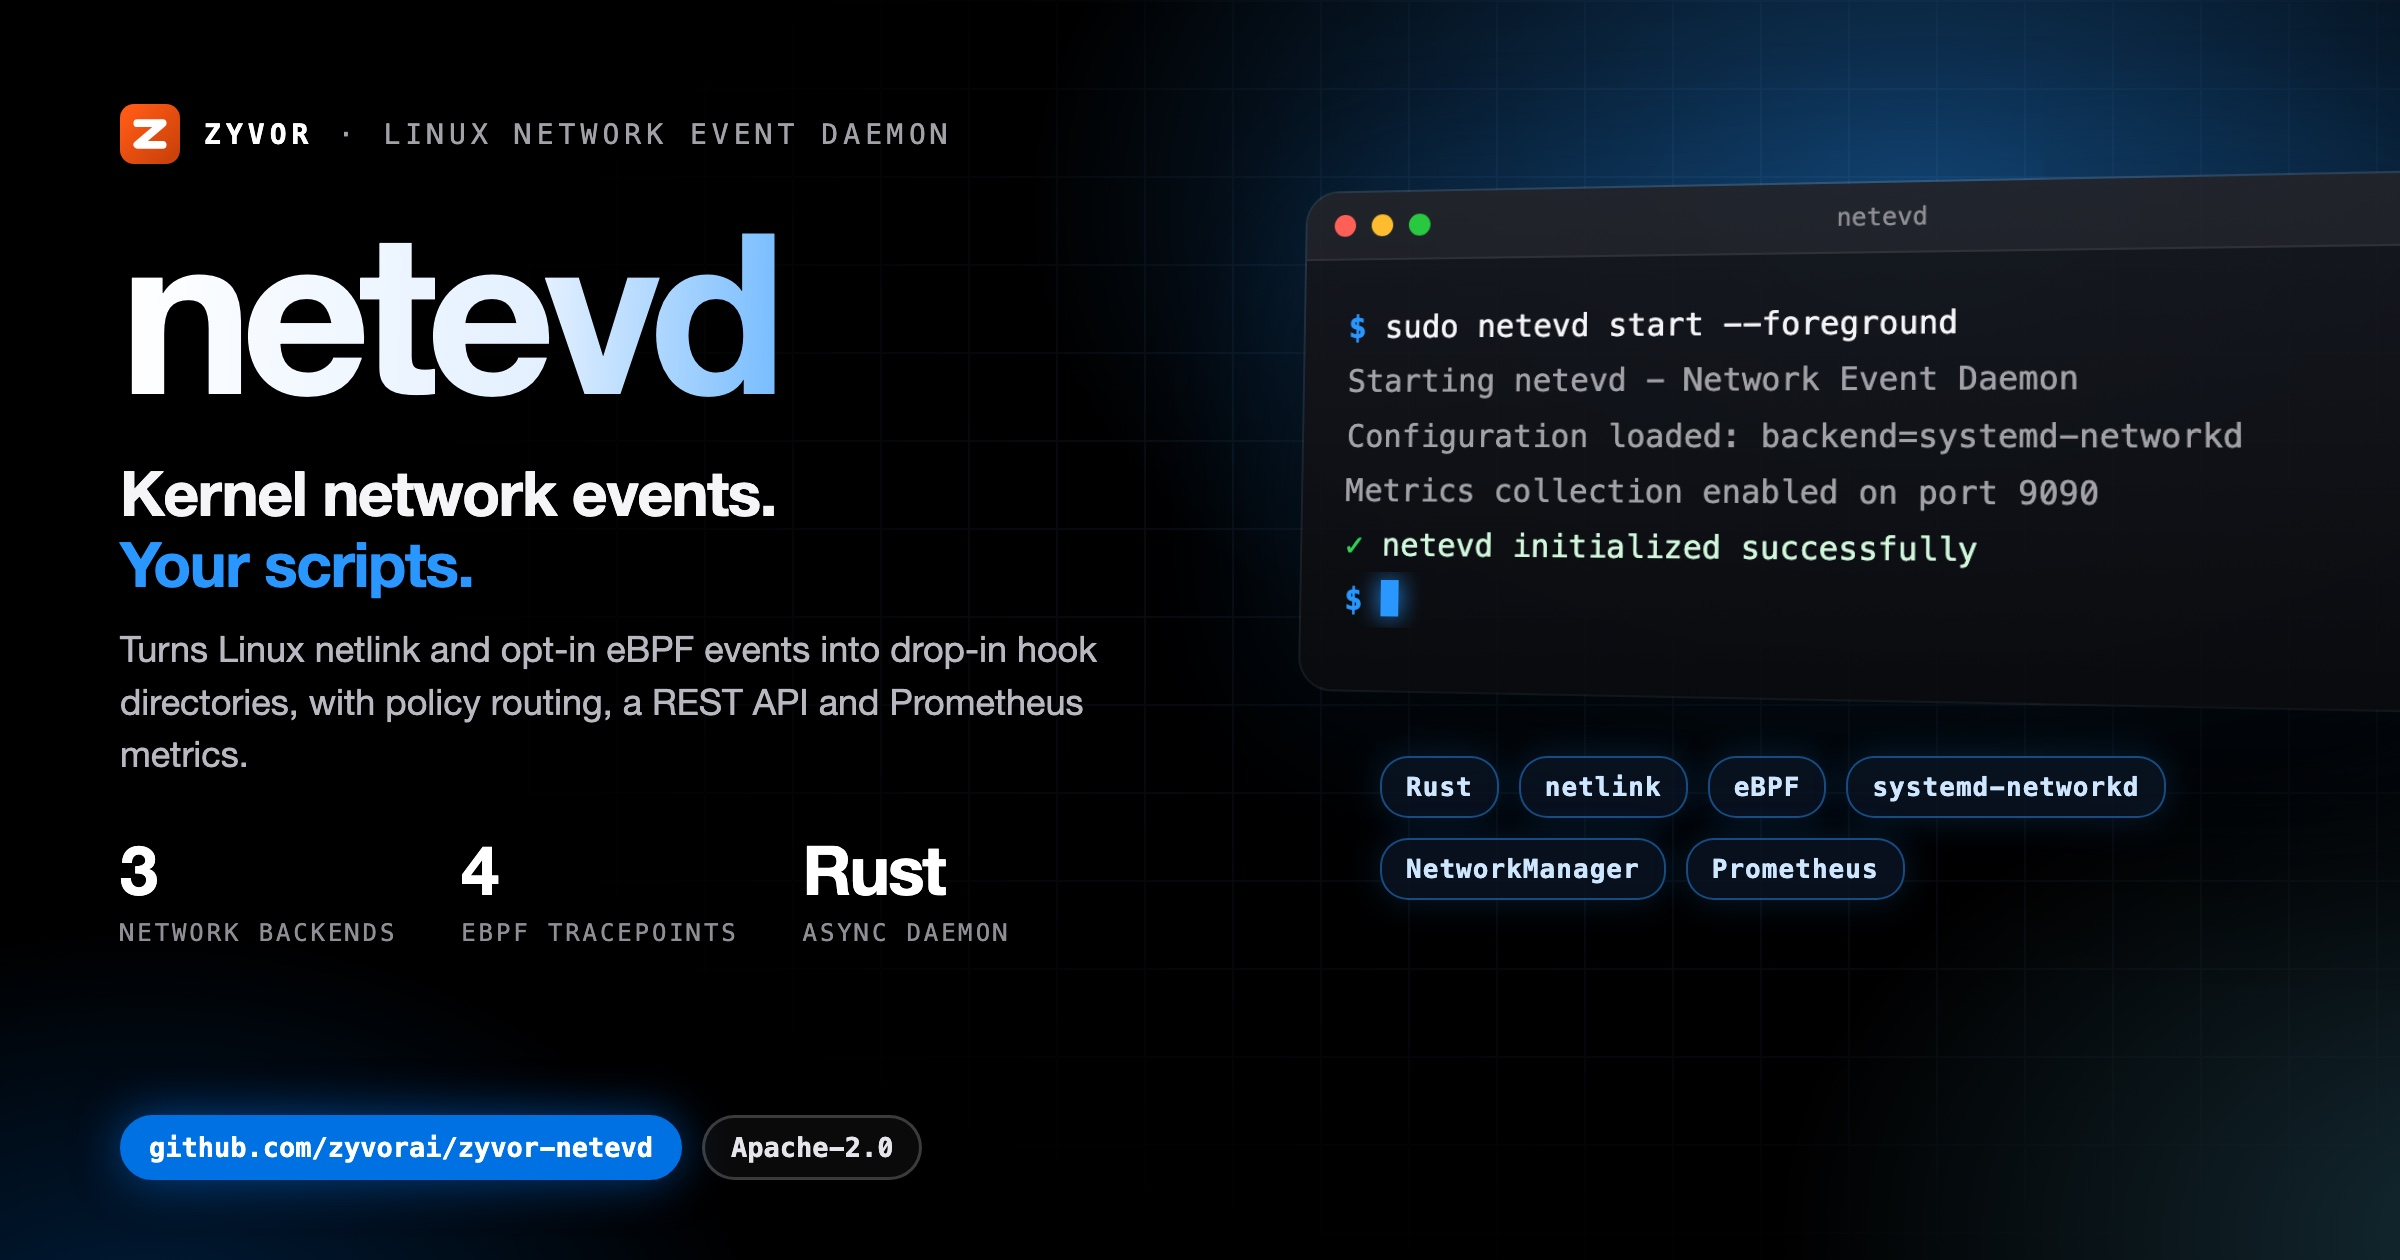
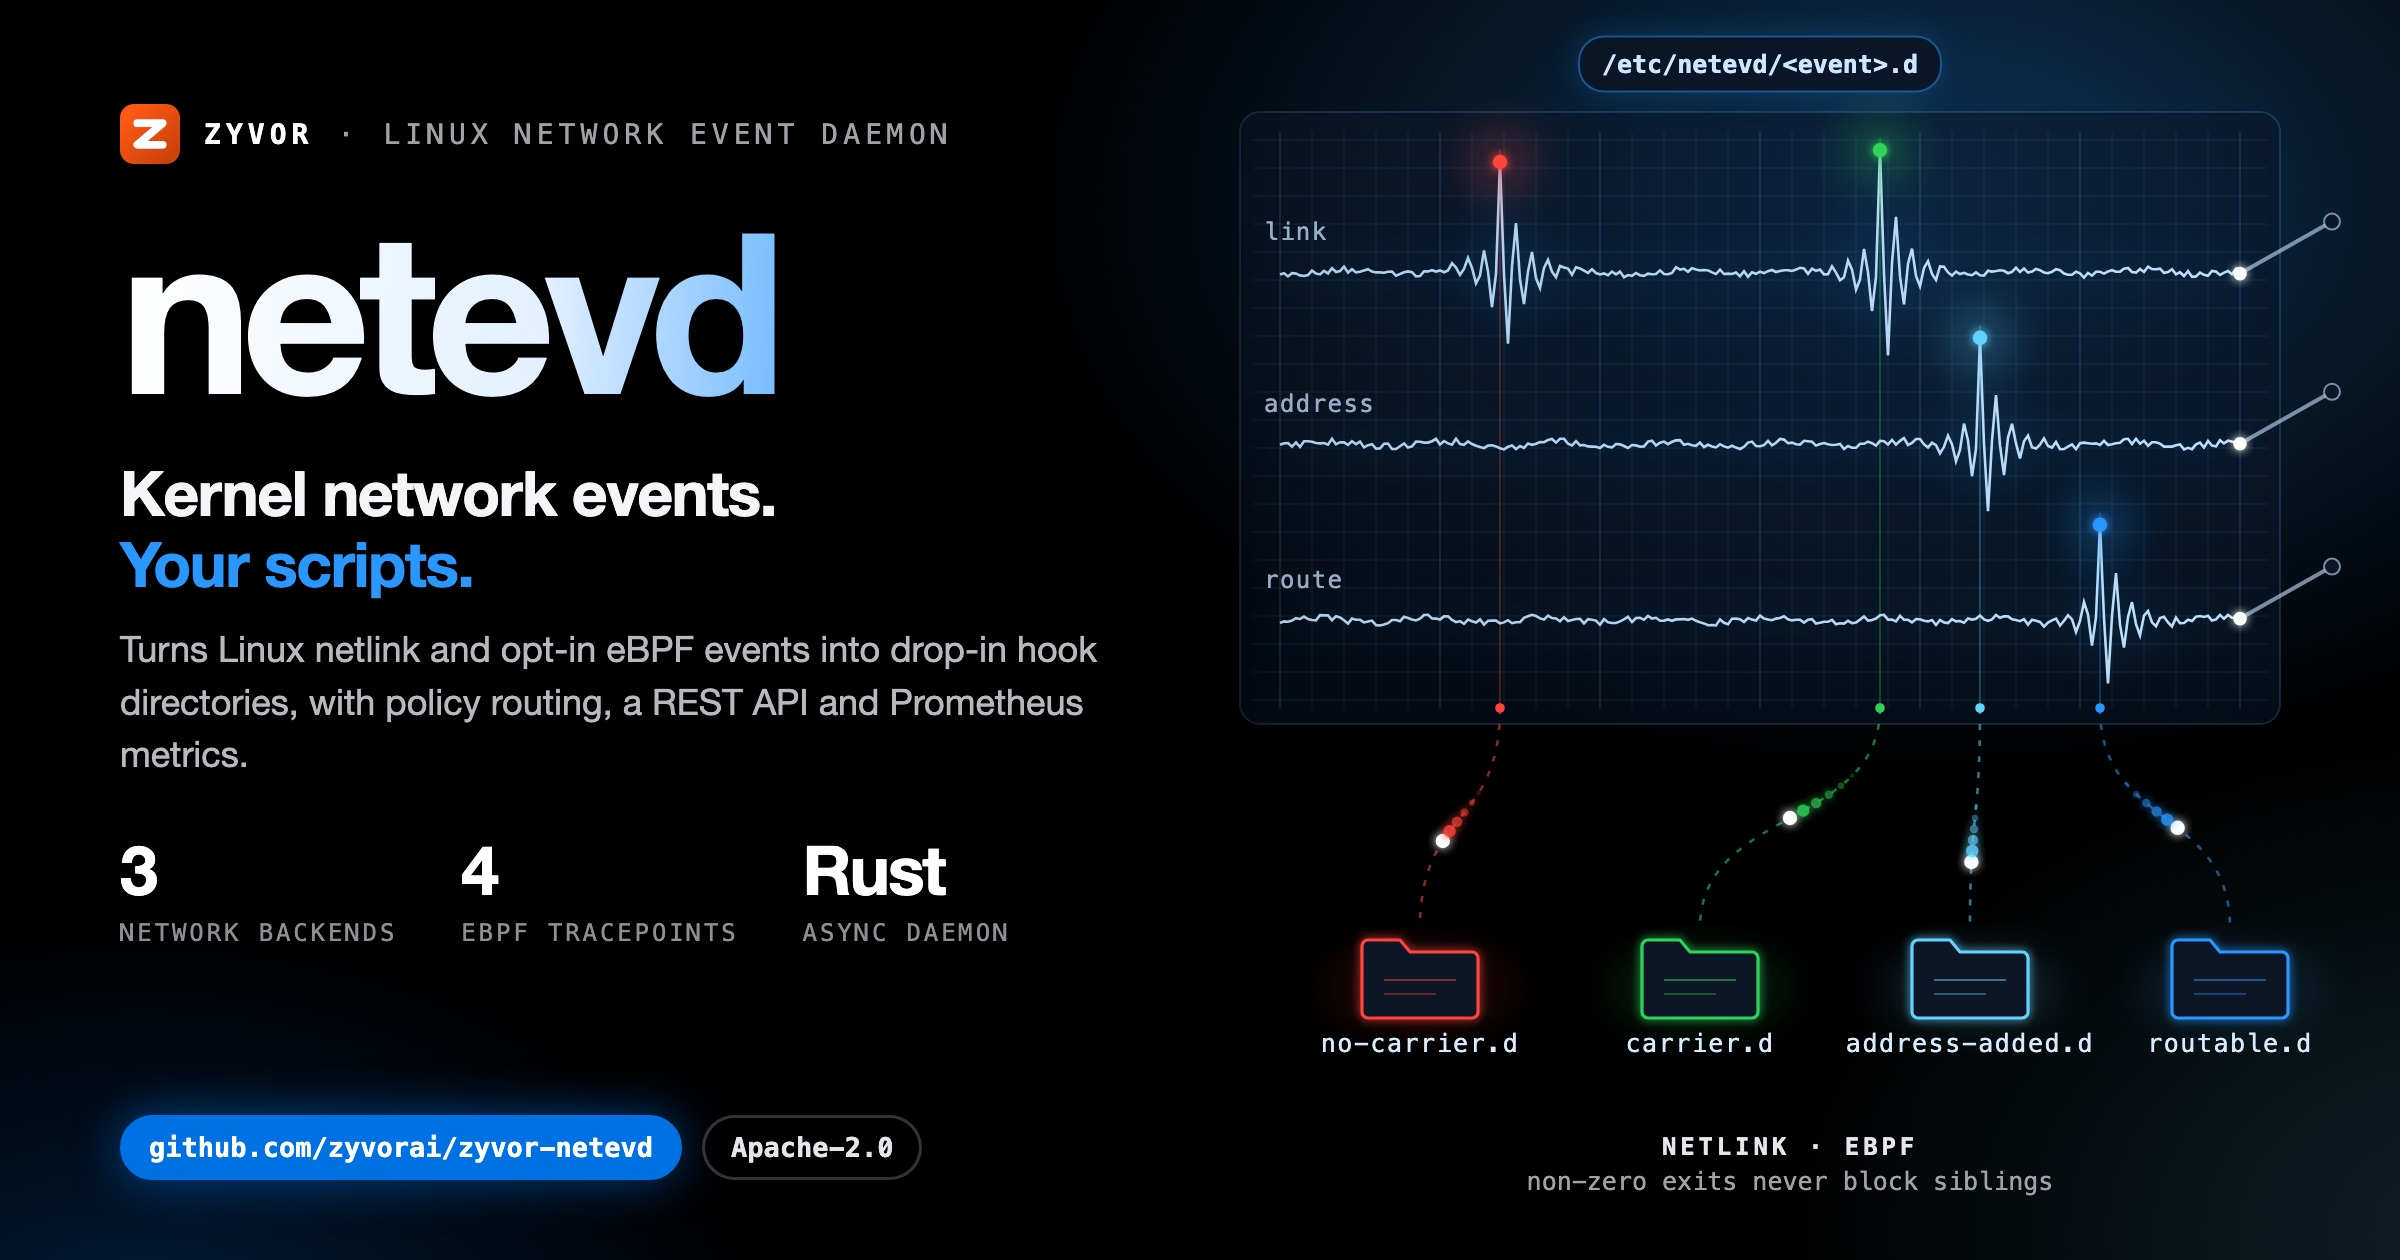
docs(social): unique illustrated hero card
Replace the shared terminal-window art with a motif drawn for this project;
same verified copy and stats on the left.

diff --git a/docs/social/netevd-hero-dark.html b/docs/social/netevd-hero-dark.html
@@ -8,58 +8,47 @@
   Build: ./docs/social/build-hero-dark.sh  ->  netevd-hero-dark.jpg (2400x1260)
 -->
 <style>
-  :root { --blue:#0071e3; --signal:#2997ff; --cyan:#64d2ff; --green:#30d158; --amber:#ff9f0a;
+  :root { --blue:#0071e3; --signal:#2997ff; --cyan:#64d2ff; --green:#30d158; --amber:#ff9f0a; --red:#ff453a; --violet:#bf5af2;
     --sans:'SF Pro Display','Helvetica Neue',Helvetica,Arial,sans-serif; --mono:'SF Mono',Menlo,Consolas,monospace; }
   * { box-sizing:border-box; }
   html,body { margin:0; padding:0; }
   body { width:1200px; height:630px; overflow:hidden; color:#f5f5f7; font-family:var(--sans); position:relative; background:#000; }
   .aurora { position:absolute; inset:0;
-    background:radial-gradient(720px 460px at 80% 16%, rgba(41,151,255,.40), transparent 62%),
-               radial-gradient(600px 420px at 104% 98%, rgba(100,210,255,.20), transparent 60%),
+    background:radial-gradient(720px 460px at 80% 16%, rgba(41,151,255,.34), transparent 62%),
+               radial-gradient(600px 420px at 104% 98%, rgba(100,210,255,.16), transparent 60%),
                radial-gradient(520px 380px at 6% 110%, rgba(0,113,227,.28), transparent 60%); }
-  .grid { position:absolute; inset:0; opacity:.09;
-    background-image:linear-gradient(rgba(120,180,255,.9) 1px,transparent 1px),linear-gradient(90deg,rgba(120,180,255,.9) 1px,transparent 1px);
-    background-size:44px 44px; -webkit-mask-image:radial-gradient(900px 520px at 72% 42%, #000 18%, transparent 75%); }
-  .left { position:absolute; left:60px; top:52px; width:560px; z-index:3; }
+  .copy { position:absolute; left:60px; top:52px; width:560px; z-index:3; }
   .brand { display:flex; align-items:center; gap:12px; font-family:var(--mono); font-size:14px; letter-spacing:.18em; text-transform:uppercase; color:#a1a1a6; }
   .brand b { color:#fff; }
   .word { margin:20px 0 0; font-size:112px; line-height:.95; font-weight:800; letter-spacing:-.05em; white-space:nowrap;
     background:linear-gradient(92deg,#fff 0%,#e3f0ff 38%,var(--signal) 74%,var(--cyan) 100%); -webkit-background-clip:text; background-clip:text; color:transparent; padding-bottom:6px; }
   .tag { margin:14px 0 0; font-size:31px; line-height:1.15; font-weight:700; letter-spacing:-.02em; }
   .tag em { font-style:normal; color:var(--signal); }
-  .lede { margin:12px 0 0; font-size:18px; line-height:1.45; color:#b8b8bf; width:520px; }
+  .lede { margin:12px 0 0; font-size:18px; line-height:1.45; color:#b8b8bf; width:520px; text-shadow:0 1px 12px #000; }
   .stats { margin-top:24px; display:flex; gap:32px; }
   .stat b { display:block; font-size:34px; font-weight:800; letter-spacing:-.03em; color:#fff; }
   .stat span { font-family:var(--mono); font-size:12px; letter-spacing:.12em; text-transform:uppercase; color:#8e8e93; }
   .pill { position:absolute; left:60px; bottom:40px; display:flex; gap:10px; z-index:3; }
-  .pill span { font-family:var(--mono); font-size:13.5px; font-weight:700; padding:7px 13px; border-radius:18px; border:1.5px solid rgba(255,255,255,.2); color:#e5e5ea; background:rgba(255,255,255,.04); }
+  .pill span { font-family:var(--mono); font-size:13.5px; font-weight:700; padding:7px 13px; border-radius:18px; border:1.5px solid rgba(255,255,255,.2); color:#e5e5ea; background:rgba(0,0,0,.6); }
   .pill span.b { background:var(--blue); border-color:var(--blue); color:#fff; box-shadow:0 0 24px rgba(0,113,227,.55); }
-
-  .right { position:absolute; left:652px; top:96px; width:560px; z-index:2; }
-  .win { position:relative; width:560px; border-radius:16px; overflow:hidden; z-index:2;
-    background:linear-gradient(180deg, rgba(22,24,30,.94), rgba(10,11,14,.96));
-    box-shadow:0 50px 100px rgba(0,0,0,.75), 0 0 0 1px rgba(255,255,255,.14), 0 0 90px rgba(41,151,255,.22);
-    transform:perspective(1600px) rotateY(-14deg) rotateX(4deg); transform-origin:left center; }
-  .bar { height:34px; display:flex; align-items:center; gap:8px; padding:0 14px; background:rgba(255,255,255,.05); border-bottom:1px solid rgba(255,255,255,.07); }
-  .bar i { width:11px; height:11px; border-radius:50%; background:#ff5f57; } .bar i:nth-child(2){background:#febc2e} .bar i:nth-child(3){background:#28c840}
-  .bar em { margin-left:auto; margin-right:auto; font-style:normal; font-family:var(--mono); font-size:12px; color:#8e8e93; transform:translateX(-24px); }
-  .term { min-height:214px; padding:20px 22px 24px; font-family:var(--mono); font-size:15.5px; line-height:1.75; }
-  .l { white-space:pre; overflow:hidden; text-overflow:ellipsis; color:#f5f5f7; }
-  .l .p { color:var(--signal); font-weight:700; }
-  .l.out { color:#a1a1a6; }
-  .l.cm { color:#6e6e73; }
-  .l.ok { color:#d1f7dc; } .l.ok span { color:var(--green); font-weight:700; }
-  .l.warn { color:#ffe1b0; } .l.warn span { color:var(--amber); font-weight:700; }
-  .cur { display:inline-block; width:9px; height:18px; background:var(--signal); vertical-align:-3px; box-shadow:0 0 12px var(--signal); }
-  .chips { margin:34px 0 0 38px; width:480px; display:flex; flex-wrap:wrap; gap:10px; position:relative; z-index:3; }
-  .chips span { font-family:var(--mono); font-size:13px; font-weight:700; letter-spacing:.04em; padding:7px 12px; border-radius:14px;
-    color:#cfe6ff; background:rgba(10,20,35,.82); border:1px solid rgba(41,151,255,.45); box-shadow:0 0 18px rgba(41,151,255,.18); }
+  .art { position:absolute; left:520px; top:0; width:680px; height:630px; z-index:2; }
+  .art svg { display:block; }
+  #labels { position:absolute; inset:0; z-index:4; pointer-events:none; }
+  .lbl { position:absolute; font-family:var(--mono); font-size:12.5px; color:#a1a1a6; text-align:center; transform:translate(-50%,-50%); white-space:nowrap; }
+  .lbl b { display:block; font-size:12px; letter-spacing:.16em; text-transform:uppercase; color:#e5e5ea; }
+  .lbl span { display:block; margin-top:3px; }
+  .lbl.box { padding:7px 12px; border-radius:12px; background:rgba(8,10,14,.85); border:1px solid rgba(255,255,255,.14); }
+  .lbl.chip { padding:6px 11px; border-radius:13px; font-size:12.5px; font-weight:700; color:#cfe6ff; background:rgba(10,20,35,.85); border:1px solid rgba(41,151,255,.5); box-shadow:0 0 16px rgba(41,151,255,.2); }
+  .lbl.left { transform:translate(0,-50%); text-align:left; }
+  .lbl.right { transform:translate(-100%,-50%); text-align:right; }
+  .ok { color:var(--green) !important; } .warn { color:var(--amber) !important; } .bad { color:var(--red) !important; } .sig { color:var(--signal) !important; } .cy { color:var(--cyan) !important; } .vi { color:var(--violet) !important; }
 </style>
 </head>
 <body>
 <div class="aurora"></div>
-<div class="grid"></div>
-<div class="left">
+<div class="art"><svg id="art" width="680" height="630" viewBox="0 0 680 630" xmlns="http://www.w3.org/2000/svg"></svg></div>
+<div id="labels"></div>
+<div class="copy">
   <div class="brand"><svg viewBox="0 0 64 64" width="30" height="30" aria-hidden="true"><defs><linearGradient id="zb" x1="8" y1="8" x2="56" y2="56" gradientUnits="userSpaceOnUse"><stop offset="0" stop-color="#ff5a15"/><stop offset="1" stop-color="#cc420a"/></linearGradient></defs><rect width="64" height="64" rx="15" fill="url(#zb)"/><path d="M18.5,20.5 45.5,20.5 18.5,43.5 45.5,43.5" fill="none" stroke="#fff" stroke-width="8.3" stroke-linecap="round" stroke-linejoin="round"/></svg><b>Zyvor</b><span>&middot;</span><span>Linux network event daemon</span></div>
   <div class="word">netevd</div>
   <div class="tag">Kernel network events.<br><em>Your scripts.</em></div>
@@ -67,8 +56,115 @@
   <div class="stats"><div class="stat"><b>3</b><span>network backends</span></div><div class="stat"><b>4</b><span>eBPF tracepoints</span></div><div class="stat"><b>Rust</b><span>async daemon</span></div></div>
 </div>
 <div class="pill"><span class="b">github.com/zyvorai/zyvor-netevd</span><span>Apache-2.0</span></div>
-<div class="right"><div class="win"><div class="bar"><i></i><i></i><i></i><em>netevd</em></div>
-<div class="term"><div class="l"><span class="p">$</span> sudo netevd start --foreground</div><div class="l out">Starting netevd - Network Event Daemon</div><div class="l out">Configuration loaded: backend=systemd-networkd</div><div class="l out">Metrics collection enabled on port 9090</div><div class="l ok"><span>&#10003;</span> netevd initialized successfully</div><div class="l"><span class="p">$</span> <i class="cur"></i></div></div></div>
-<div class="chips"><span>Rust</span><span>netlink</span><span>eBPF</span><span>systemd-networkd</span><span>NetworkManager</span><span>Prometheus</span></div></div>
+<script>
+var Z = (function () {
+  var NS = 'http://www.w3.org/2000/svg', svg = document.getElementById('art'), labels = document.getElementById('labels');
+  var seed = 20261004;
+  function rnd() { seed = (seed * 1103515245 + 12345) % 2147483648; return seed / 2147483648; }
+  function el(tag, a, parent) { var n = document.createElementNS(NS, tag); for (var k in a) n.setAttribute(k, a[k]); (parent || svg).appendChild(n); return n; }
+  function g(attrs) { return el('g', attrs || {}); }
+  function label(x, y, inner, cls, style) { var d = document.createElement('div'); d.className = 'lbl ' + (cls || ''); d.style.left = (520 + x) + 'px'; d.style.top = y + 'px'; if (style) d.setAttribute('style', d.getAttribute('style') + ';' + style); d.innerHTML = inner; labels.appendChild(d); return d; }
+  return { NS: NS, svg: svg, W: 680, H: 630, rnd: rnd, el: el, g: g, label: label,
+    reseed: function (s) { seed = s; },
+    c: { blue: '#0071e3', signal: '#2997ff', cyan: '#64d2ff', green: '#30d158', amber: '#ff9f0a', red: '#ff453a', violet: '#bf5af2', teal: '#40c8e0', indigo: '#5e5ce6', pink: '#ff375f', white: '#f5f5f7', grey: '#8e8e93' } };
+})();
+(function () {
+// netevd: a seismograph. Three event traces (link, address, route) run on chart paper; each spike drops a
+// glowing bead down into the hook directory it triggers.
+var C = Z.c, mono = 'ui-monospace, SFMono-Regular, Menlo, monospace';
+var X0 = 120, X1 = 600;
+var defs = Z.el('defs', {});
+defs.innerHTML = '<filter id="ne-gl" x="-50%" y="-50%" width="200%" height="200%"><feGaussianBlur stdDeviation="2.4" result="b"/><feMerge><feMergeNode in="b"/><feMergeNode in="SourceGraphic"/></feMerge></filter>' +
+  '<filter id="ne-sf" x="-50%" y="-50%" width="200%" height="200%"><feGaussianBlur stdDeviation="12"/></filter>' +
+  '<linearGradient id="ne-fade" x1="0" y1="0" x2="1" y2="0"><stop offset="0" stop-color="#fff" stop-opacity="0"/><stop offset=".18" stop-color="#fff" stop-opacity=".9"/><stop offset="1" stop-color="#fff"/></linearGradient>' +
+  '<mask id="ne-m"><rect x="0" y="0" width="680" height="630" fill="url(#ne-fade)"/></mask>' +
+  '<linearGradient id="ne-drop" x1="0" y1="0" x2="0" y2="1"><stop offset="0" stop-color="#fff" stop-opacity=".0"/><stop offset="1" stop-color="#fff" stop-opacity=".9"/></linearGradient>';
+function f(v) { return v.toFixed(1); }
+function txt(x, y, s, fill, size, anchor) {
+  var t = Z.el('text', { x: f(x), y: f(y), fill: fill, 'font-family': mono, 'font-size': size, 'text-anchor': anchor || 'start', 'letter-spacing': '.06em' });
+  t.textContent = s; return t;
+}
+
+// chart paper
+var paper = Z.g({ mask: 'url(#ne-m)' });
+Z.el('rect', { x: X0 - 20, y: 56, width: X1 - X0 + 40, height: 306, rx: 10, fill: 'rgba(10,22,40,.55)', stroke: 'rgba(120,185,255,.18)' }, paper);
+for (var x = X0; x <= X1; x += 16) Z.el('line', { x1: x, y1: 66, x2: x, y2: 354, stroke: 'rgba(120,185,255,' + ((x - X0) % 80 ? '.06' : '.14') + ')' }, paper);
+for (var y = 70; y <= 350; y += 14) Z.el('line', { x1: X0 - 14, y1: y, x2: X1 + 14, y2: y, stroke: 'rgba(120,185,255,.06)' }, paper);
+
+// traces: baseline, events {x, amp, colour, hook}
+var traces = [
+  { y: 136, n: 'link', ev: [{ x: 230, a: 54, c: C.red, hook: 0 }, { x: 420, a: 60, c: C.green, hook: 1 }] },
+  { y: 222, n: 'address', ev: [{ x: 470, a: 52, c: C.cyan, hook: 2 }] },
+  { y: 310, n: 'route', ev: [{ x: 530, a: 48, c: C.signal, hook: 3 }] }
+];
+var hooks = [
+  { x: 190, n: 'no-carrier.d', c: C.red },
+  { x: 330, n: 'carrier.d', c: C.green },
+  { x: 465, n: 'address-added.d', c: C.cyan },
+  { x: 595, n: 'routable.d', c: C.signal }
+];
+var hy = 488, beads = [];
+
+traces.forEach(function (tr, ti) {
+  Z.reseed(11 + ti * 7);
+  var pts = [], step = 2;
+  tr.ev.forEach(function (e) { e.py = tr.y; e.px = e.x; });
+  for (var x = X0; x <= X1; x += step) {
+    var y = tr.y + (Z.rnd() - 0.5) * 3.2 + Math.sin(x / 9 + ti) * 1.2;
+    tr.ev.forEach(function (e) {
+      var dx = x - e.x;
+      if (Math.abs(dx) < 40) {
+        var env = Math.exp(-Math.abs(dx) / 10);
+        y -= Math.cos(dx * 0.8) * e.a * env * (dx < 0 ? 0.45 : 1);
+        if (y < e.py) { e.py = y; e.px = x; }
+      }
+    });
+    pts.push(f(x) + ',' + f(y));
+  }
+  var d = 'M' + pts.join(' L');
+  Z.el('path', { d: d, fill: 'none', stroke: C.signal, 'stroke-width': 5, opacity: .14, filter: 'url(#ne-sf)', mask: 'url(#ne-m)' });
+  Z.el('path', { d: d, fill: 'none', stroke: '#bfe2ff', 'stroke-width': 1.3, mask: 'url(#ne-m)' });
+  txt(X0 - 8, tr.y - 16, tr.n, 'rgba(200,225,255,.75)', 12);
+  // stylus at the right end
+  var last = pts[pts.length - 1].split(',');
+  Z.el('line', { x1: X1, y1: f(+last[1]), x2: X1 + 46, y2: f(+last[1] - 26), stroke: 'rgba(200,225,255,.6)', 'stroke-width': 2, 'stroke-linecap': 'round' });
+  Z.el('circle', { cx: X1 + 46, cy: f(+last[1] - 26), r: 4, fill: '#0b1626', stroke: 'rgba(200,225,255,.6)' });
+  Z.el('circle', { cx: X1, cy: f(+last[1]), r: 3.4, fill: '#fff', filter: 'url(#ne-gl)' });
+  // event markers on the spike peaks
+  tr.ev.forEach(function (e) {
+    Z.el('line', { x1: e.px, y1: f(e.py - 6), x2: e.px, y2: 354, stroke: e.c, 'stroke-width': 1, opacity: .28 });
+    Z.el('circle', { cx: e.px, cy: f(e.py), r: 16, fill: e.c, opacity: .3, filter: 'url(#ne-sf)' });
+    Z.el('circle', { cx: e.px, cy: f(e.py), r: 3.6, fill: e.c, filter: 'url(#ne-gl)' });
+    beads.push({ x: e.px, y: 354, c: e.c, h: hooks[e.hook] });
+  });
+});
+
+// drops from each spike into its hook directory
+beads.forEach(function (b, k) {
+  var tx = b.h.x, ty = hy - 24;
+  var d = 'M' + f(b.x) + ',' + f(b.y) + ' C' + f(b.x) + ',' + f(b.y + 60) + ' ' + f(tx) + ',' + f(ty - 60) + ' ' + f(tx) + ',' + f(ty);
+  Z.el('circle', { cx: f(b.x), cy: f(b.y), r: 2.4, fill: b.c });
+  Z.el('path', { d: d, fill: 'none', stroke: b.c, 'stroke-width': 1.3, opacity: .55, 'stroke-dasharray': '3 5' });
+  var el = Z.el('path', { d: d, fill: 'none', stroke: 'none' }), L = el.getTotalLength();
+  for (var i = 0; i < 6; i++) {
+    var q = el.getPointAtLength(L * ([0.62, 0.5, 0.7, 0.56][k] - i * 0.05));
+    Z.el('circle', { cx: f(q.x), cy: f(q.y), r: (3.6 - i * 0.5).toFixed(1), fill: i ? b.c : '#fff', opacity: (1 - i * 0.15).toFixed(2), filter: 'url(#ne-gl)' });
+  }
+});
+
+// hook directories (folder glyphs)
+hooks.forEach(function (h) {
+  var g = Z.g({ transform: 'translate(' + h.x + ',' + hy + ')' });
+  Z.el('ellipse', { cx: 0, cy: 6, rx: 44, ry: 16, fill: h.c, opacity: .18, filter: 'url(#ne-sf)' }, g);
+  Z.el('path', { d: 'M-26,-18 h16 l5,6 h31 a3,3 0 0 1 3,3 v27 a3,3 0 0 1 -3,3 h-52 a3,3 0 0 1 -3,-3 v-33 a3,3 0 0 1 3,-3z', fill: '#0b1626', stroke: h.c, 'stroke-width': 1.6, filter: 'url(#ne-gl)' }, g);
+  Z.el('line', { x1: -18, y1: 2, x2: 18, y2: 2, stroke: h.c, opacity: .5 }, g);
+  Z.el('line', { x1: -18, y1: 9, x2: 8, y2: 9, stroke: h.c, opacity: .35 }, g);
+  txt(h.x, hy + 38, h.n, '#d6ebff', 12.5, 'middle');
+});
+
+Z.label(360, 32, '/etc/netevd/&lt;event&gt;.d', 'chip');
+Z.label(375, 582, '<b>netlink &middot; eBPF</b><span>non-zero exits never block siblings</span>');
+})();
+</script>
 </body>
 </html>
